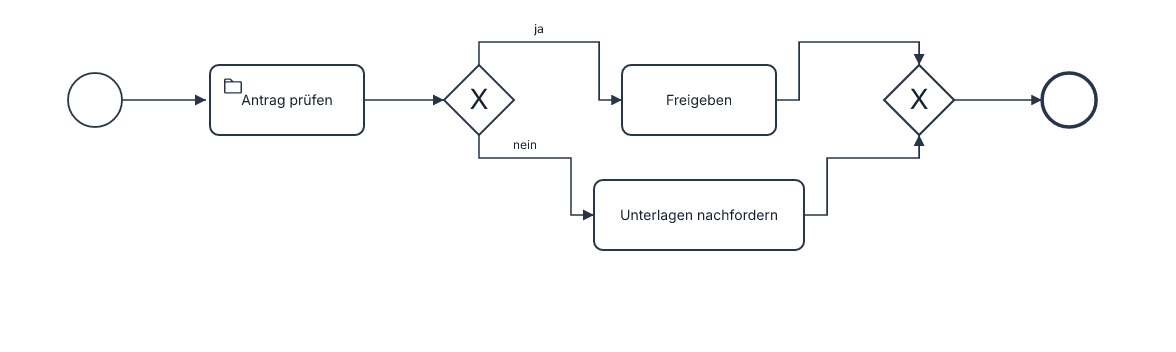
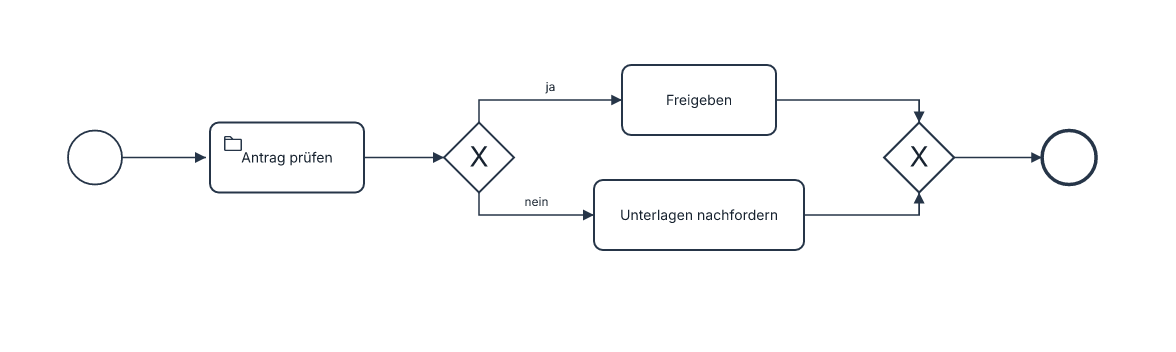
Center BPMN branches and minimize gateway route bends

diff --git a/src/bpmn/render/edges.rs b/src/bpmn/render/edges.rs
@@ -58,22 +58,91 @@ fn gateway_route(
     });
     let (sx, sy) = stub(source);
     let (tx, ty) = stub(target);
-    let start_vertical = matches!(source.side, Side::Top | Side::Bottom);
-    let end_vertical = matches!(target.side, Side::Top | Side::Bottom);
-    let mut points = vec![(source.x, source.y), (sx, sy)];
-    match (start_vertical, end_vertical) {
-        (true, false) => points.push((tx, sy)),
-        (false, true) => points.push((sx, ty)),
-        (true, true) => {
-            let mid = (sy + ty) / 2.0;
-            points.extend([(sx, mid), (tx, mid)]);
+    // A branch above/below (or left/right in a vertical diagram) can leave
+    // the gateway in its outward direction and enter the task in one bend.
+    let corner = if from.is_some() && to.is_none() {
+        match (source.side, target.side) {
+            (Side::Top, Side::Left | Side::Right) if target.y < source.y - 2.0 => {
+                Some((source.x, target.y))
+            }
+            (Side::Bottom, Side::Left | Side::Right) if target.y > source.y + 2.0 => {
+                Some((source.x, target.y))
+            }
+            (Side::Left, Side::Top | Side::Bottom) if target.x < source.x - 2.0 => {
+                Some((target.x, source.y))
+            }
+            (Side::Right, Side::Top | Side::Bottom) if target.x > source.x + 2.0 => {
+                Some((target.x, source.y))
+            }
+            _ => None,
         }
-        (false, false) => {
-            let mid = (sx + tx) / 2.0;
-            points.extend([(mid, sy), (mid, ty)]);
+    } else if from.is_none() && to.is_some() {
+        match (source.side, target.side) {
+            (Side::Left | Side::Right, Side::Top) if source.y < target.y - 2.0 => {
+                Some((target.x, source.y))
+            }
+            (Side::Left | Side::Right, Side::Bottom) if source.y > target.y + 2.0 => {
+                Some((target.x, source.y))
+            }
+            (Side::Top | Side::Bottom, Side::Left) if source.x < target.x - 2.0 => {
+                Some((source.x, target.y))
+            }
+            (Side::Top | Side::Bottom, Side::Right) if source.x > target.x + 2.0 => {
+                Some((source.x, target.y))
+            }
+            _ => None,
         }
-    }
-    points.extend([(tx, ty), (target.x, target.y)]);
+    } else {
+        None
+    };
+    let clear = |corner: (f64, f64)| {
+        let points = [(source.x, source.y), corner, (target.x, target.y)];
+        points.windows(2).all(|leg| {
+            doc.nodes.iter().enumerate().all(|(i, node)| {
+                if node.id == e.from
+                    || node.id == e.to
+                    || node.pool
+                        != doc.nodes[doc.nodes.iter().position(|n| n.id == e.from).unwrap()].pool
+                {
+                    return true;
+                }
+                let b = geom.nodes[i];
+                let margin = 5.0;
+                if (leg[0].0 - leg[1].0).abs() < 0.01 {
+                    leg[0].0 <= b.x - b.w / 2.0 - margin
+                        || leg[0].0 >= b.x + b.w / 2.0 + margin
+                        || leg[0].1.max(leg[1].1) <= b.y - b.h / 2.0 - margin
+                        || leg[0].1.min(leg[1].1) >= b.y + b.h / 2.0 + margin
+                } else {
+                    leg[0].1 <= b.y - b.h / 2.0 - margin
+                        || leg[0].1 >= b.y + b.h / 2.0 + margin
+                        || leg[0].0.max(leg[1].0) <= b.x - b.w / 2.0 - margin
+                        || leg[0].0.min(leg[1].0) >= b.x + b.w / 2.0 + margin
+                }
+            })
+        })
+    };
+    let mut points = if let Some(corner) = corner.filter(|&corner| clear(corner)) {
+        vec![(source.x, source.y), corner, (target.x, target.y)]
+    } else {
+        let start_vertical = matches!(source.side, Side::Top | Side::Bottom);
+        let end_vertical = matches!(target.side, Side::Top | Side::Bottom);
+        let mut points = vec![(source.x, source.y), (sx, sy)];
+        match (start_vertical, end_vertical) {
+            (true, false) => points.push((tx, sy)),
+            (false, true) => points.push((sx, ty)),
+            (true, true) => {
+                let mid = (sy + ty) / 2.0;
+                points.extend([(sx, mid), (tx, mid)]);
+            }
+            (false, false) => {
+                let mid = (sx + tx) / 2.0;
+                points.extend([(mid, sy), (mid, ty)]);
+            }
+        }
+        points.extend([(tx, ty), (target.x, target.y)]);
+        points
+    };
     points.dedup_by(|a, b| (a.0 - b.0).abs() < 0.01 && (a.1 - b.1).abs() < 0.01);
     let mut path = String::new();
     for (i, (x, y)) in points.iter().enumerate() {

diff --git a/src/bpmn/render/ports.rs b/src/bpmn/render/ports.rs
@@ -203,7 +203,45 @@ mod tests {
         assert_ne!((top.x, top.y), (bottom.x, bottom.y));
         let y = |id: &str| geom.nodes[doc.nodes.iter().position(|n| n.id == id).unwrap()].y;
         assert_eq!(y("Start"), y("Review"));
+        assert_eq!(y("Review"), y("Complete"));
+        assert_eq!(y("Complete"), y("Merge"));
         assert_eq!(y("Merge"), y("Done"));
+        assert_eq!(y("Complete"), (y("Approve") + y("RequestDocuments")) / 2.0);
+        let svg = crate::bpmn::render(&doc, crate::svg::TextMode::System).unwrap();
+        let arrows: Vec<_> = svg
+            .lines()
+            .filter(|line| line.contains("marker-end=\"url(#solid-arrow)\""))
+            .collect();
+        assert_eq!(arrows.len(), doc.edges.len());
+        for (from, to) in [
+            ("Complete", "Approve"),
+            ("Complete", "RequestDocuments"),
+            ("Approve", "Merge"),
+            ("RequestDocuments", "Merge"),
+        ] {
+            assert_eq!(
+                arrows[edge_index(&doc, from, to)].matches(" L ").count(),
+                2,
+                "{from}->{to} should have exactly one bend"
+            );
+        }
+    }
+    #[test]
+    fn three_way_gateway_centers_the_trunk_on_the_middle_branch() {
+        let source = "settings {\ntype: bpmn\n}\nsemantics {\nStart <X>@Split A ; B ; C\nA --> <X>@Merge --> End\nB --> Merge\nC --> Merge\n}";
+        let doc = parse(source).unwrap();
+        let geom = geometry::place(&doc).unwrap();
+        let y = |id: &str| geom.nodes[doc.nodes.iter().position(|n| n.id == id).unwrap()].y;
+        assert_eq!(y("Split"), y("B"));
+        assert_eq!(y("Merge"), y("B"));
+        assert_eq!(y("Start"), y("End"));
+        let ports = assign(&doc, &geom).unwrap();
+        for (name, side) in [("A", Side::Top), ("B", Side::Right), ("C", Side::Bottom)] {
+            assert_eq!(
+                ports.ends[edge_index(&doc, "Split", name)].0.unwrap().side,
+                side
+            );
+        }
     }
     #[test]
     fn explicit_side_overrides_are_mandatory_and_collisions_fail() {
@@ -233,13 +271,9 @@ mod tests {
     }
     #[test]
     fn degree_above_four_spreads_perimeter_attachments() {
-        let source = "settings {\ntype: bpmn\n}\nsemantics {\nStart --> <X>@Choice\nChoice <X>@Extra A ; B\n}";
         // A single split with five exits and one incoming.
-        let source = source.replace(
-            "Start --> <X>@Choice\nChoice <X>@Extra A ; B",
-            "Start <X>@Choice A ; B ; C ; D ; E",
-        );
-        let doc = parse(&source).unwrap();
+        let source = "settings {\ntype: bpmn\n}\nsemantics {\nstartEvent Begin\nBegin --> Start\nStart <X>@Choice A ; B ; C ; D ; E\n}";
+        let doc = parse(source).unwrap();
         let geom = geometry::place(&doc).unwrap();
         let ports = assign(&doc, &geom).unwrap();
         let points: Vec<_> = doc

diff --git a/src/bpmn/geometry/branch.rs b/src/bpmn/geometry/branch.rs
@@ -1,0 +1,65 @@
+//! Align the single-node spine with the middle of a gateway's branches.
+//! This is an automatic preference, applied before mandatory layout rules.
+use super::BoxAt;
+use crate::bpmn::{Document, EdgeKind, Kind};
+
+pub(super) fn spine_center(
+    doc: &Document,
+    indices: &[usize],
+    ranks: &[usize],
+    boxes: &[BoxAt],
+) -> Option<f64> {
+    let mut best: Option<(f64, f64)> = None;
+    for (gateway_index, node) in doc.nodes.iter().enumerate() {
+        if !matches!(
+            node.kind,
+            Kind::Exclusive | Kind::Parallel | Kind::Inclusive | Kind::EventBased
+        ) || !indices.contains(&gateway_index)
+        {
+            continue;
+        }
+        for outgoing in [true, false] {
+            let mut connected: Vec<_> = doc
+                .edges
+                .iter()
+                .filter(|e| {
+                    e.kind == EdgeKind::Sequence
+                        && if outgoing {
+                            e.from == node.id
+                        } else {
+                            e.to == node.id
+                        }
+                })
+                .filter_map(|e| {
+                    doc.nodes.iter().position(|n| {
+                        n.id.as_str()
+                            == if outgoing {
+                                e.to.as_str()
+                            } else {
+                                e.from.as_str()
+                            }
+                    })
+                })
+                .filter(|i| indices.contains(i))
+                .collect();
+            connected.sort_unstable();
+            for &index in &connected {
+                let row: Vec<_> = connected
+                    .iter()
+                    .filter(|&&other| ranks[other] == ranks[index])
+                    .map(|&other| boxes[other].y)
+                    .collect();
+                if row.len() < 2 {
+                    continue;
+                }
+                let low = row.iter().copied().fold(f64::INFINITY, f64::min);
+                let high = row.iter().copied().fold(f64::NEG_INFINITY, f64::max);
+                let span = high - low;
+                if span > 1.0 && best.is_none_or(|(previous, _)| span > previous) {
+                    best = Some((span, (low + high) / 2.0));
+                }
+            }
+        }
+    }
+    best.map(|(_, center)| center)
+}

diff --git a/src/bpmn/geometry.rs b/src/bpmn/geometry.rs
@@ -63,6 +63,7 @@ fn size(doc: &Document, node: &Node) -> (f64, f64) {
         }
     }
 }
+mod branch;
 mod ranks;
 use ranks::ranks;
 fn node_index(doc: &Document, name: &str) -> Result<usize, String> {
@@ -127,6 +128,22 @@ fn place_group(
         };
         row_bottom[rank] = y + h / 2.0 + 45.0;
         height = height.max(row_bottom[rank] - top + 25.0);
+    }
+    if let Some(center) = branch::spine_center(doc, indices, ranks, boxes) {
+        for &i in indices {
+            if indices.iter().filter(|&&j| ranks[j] == ranks[i]).count() == 1
+                && doc.edges.iter().any(|e| {
+                    e.kind == super::EdgeKind::Sequence
+                        && (e.from == doc.nodes[i].id || e.to == doc.nodes[i].id)
+                })
+            {
+                boxes[i].y = center;
+            }
+        }
+        height = indices
+            .iter()
+            .map(|&i| boxes[i].y + boxes[i].h / 2.0 + 70.0 - top)
+            .fold(height, f64::max);
     }
     let width = x[max_rank] - left + widths[max_rank] / 2.0 + 70.0;
     (width, height)

diff --git a/docs/bpmn-diagrams.md b/docs/bpmn-diagrams.md
@@ -83,7 +83,7 @@ layout {
 
 Contradictory rules fail. Layout directions (`<`, `>`, `above`, `below`) describe actual image coordinates even when the automatic flow is top-to-bottom. A manual rule cannot change pool, lane or subprocess membership. This BPMN renderer supports relative ordering; numeric gap and alignment constraints are not yet supported for BPMN.
 
-By default, a gateway with up to four sequence flows assigns **a distinct cardinal docking point to each flow**. For the basic example, the split enters from the left and exits at the top (`ja`) and bottom (`nein`); the merge enters at the top and bottom and exits to the right. More than four flows are distributed at distinct points along the diamond's perimeter rather than sharing an anchor. To override an individual gateway end, identify the flow by its endpoint IDs:
+By default, a gateway with up to four sequence flows assigns **a distinct cardinal docking point to each flow**. For the basic example, the split enters from the left and exits at the top (`ja`) and bottom (`nein`); the merge enters at the top and bottom and exits to the right. Automatic placement centers the straight-through path between the two branches; where unobstructed, each branch needs only one right-angle bend between its gateway and task. More than four flows are distributed at distinct points along the diamond's perimeter rather than sharing an anchor. To override an individual gateway end, identify the flow by its endpoint IDs:
 
 ```text
 layout {
